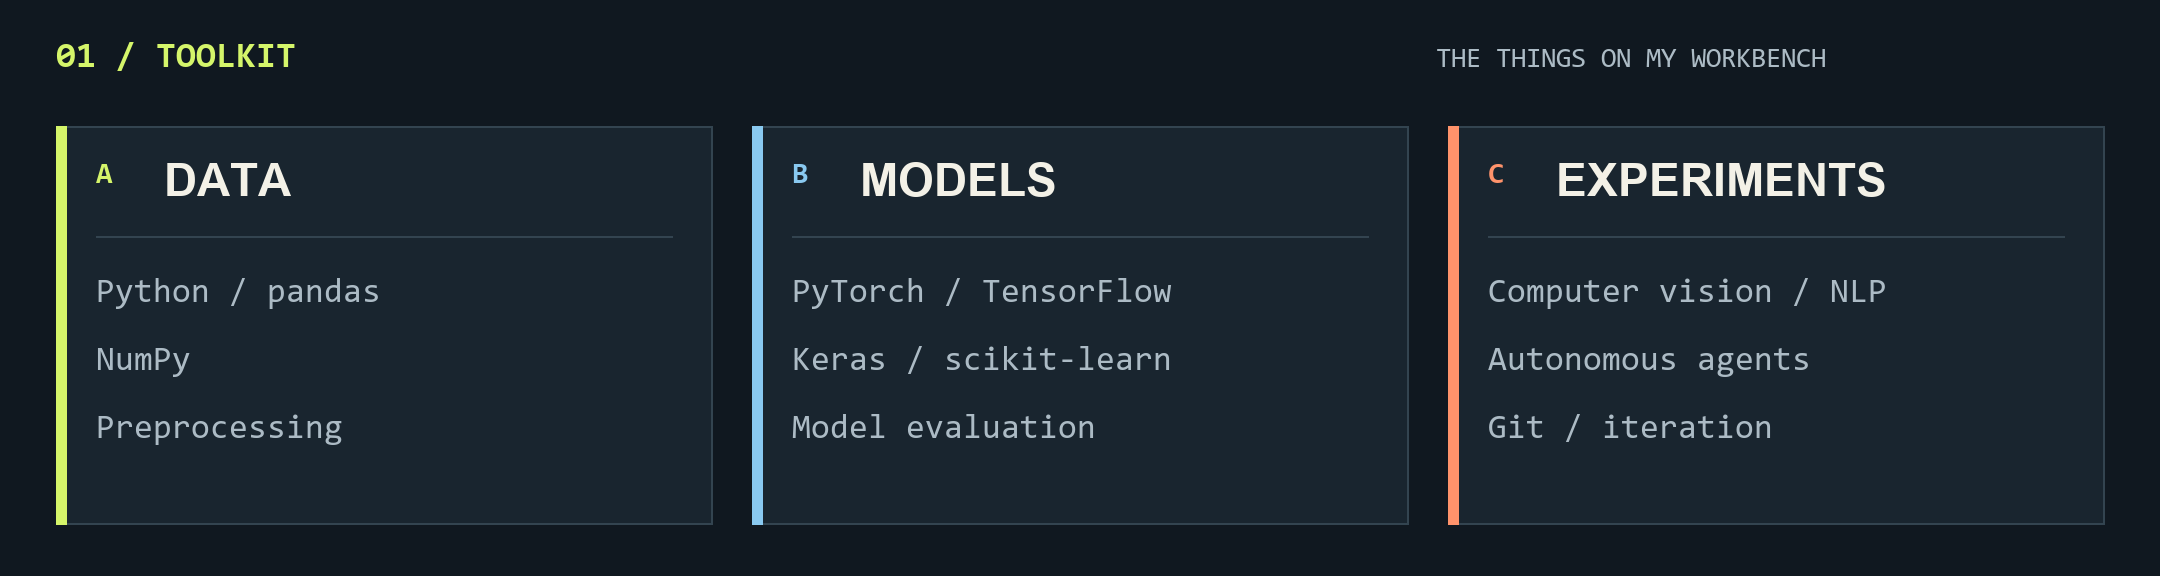
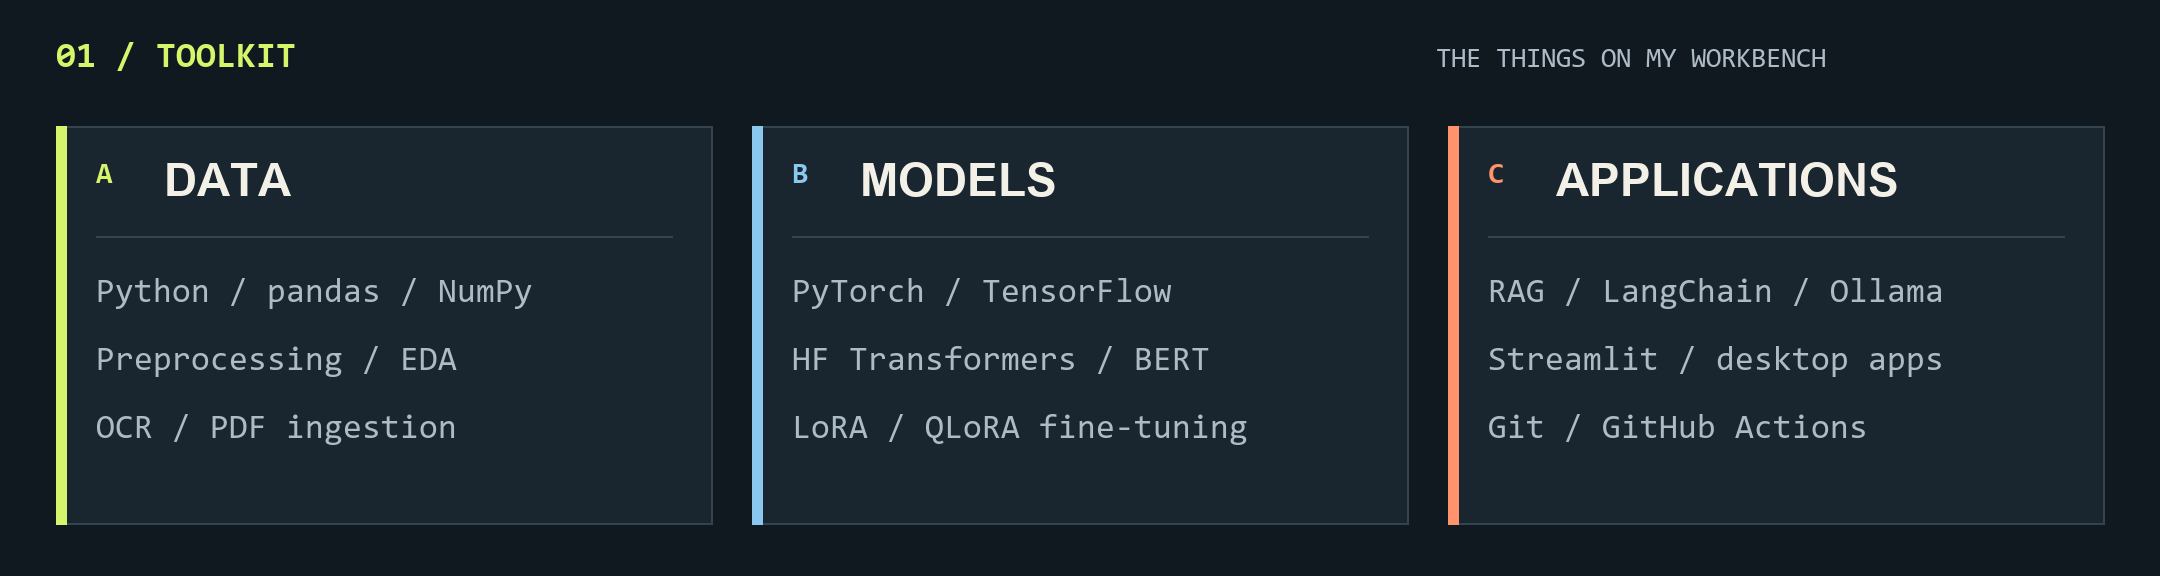
chore: remove pacman animation workflow from GitHub Actions

diff --git a/scripts/build_profile.py b/scripts/build_profile.py
@@ -78,9 +78,9 @@ im,d=new(288)
 txt(d,28,20,'01 / TOOLKIT',18,LIME,'consolab')
 txt(d,718,23,'THE THINGS ON MY WORKBENCH',14,MUTED)
 for x,num,title,items,color in [
-    (28,'A','DATA',['Python / pandas','NumPy','Preprocessing'],LIME),
-    (376,'B','MODELS',['PyTorch / TensorFlow','Keras / scikit-learn','Model evaluation'],BLUE),
-    (724,'C','EXPERIMENTS',['Computer vision / NLP','Autonomous agents','Git / iteration'],ORANGE)]:
+    (28,'A','DATA',['Python / pandas / NumPy','Preprocessing / EDA','OCR / PDF ingestion'],LIME),
+    (376,'B','MODELS',['PyTorch / TensorFlow','HF Transformers / BERT','LoRA / QLoRA fine-tuning'],BLUE),
+    (724,'C','APPLICATIONS',['RAG / LangChain / Ollama','Streamlit / desktop apps','Git / GitHub Actions'],ORANGE)]:
     box(d,(x,63,x+328,262),PANEL,EDGE)
     box(d,(x,63,x+5,262),color)
     txt(d,x+20,80,num,15,color,'consolab')

diff --git a/README.md b/README.md
@@ -1,15 +1,15 @@
 <img src="./img/profile-cover.png" width="100%" alt="JANLEARNS — Rayzan Fazri Ramdany. Aspiring ML and AI engineer. Build, break, learn, repeat." />
 
 <p align="center">
+  <a href="https://janlearns.github.io/Portofolio/"><b>PORTFOLIO ↗</b></a> &nbsp; &nbsp; / &nbsp; &nbsp;
   <a href="mailto:rayzanfazri@gmail.com"><b>EMAIL ↗</b></a> &nbsp; &nbsp; / &nbsp; &nbsp;
   <a href="https://www.linkedin.com/in/rayzan-fazri-ramdany-190063291"><b>LINKEDIN ↗</b></a> &nbsp; &nbsp; / &nbsp; &nbsp;
-  <a href="https://www.instagram.com/rayzan3_0"><b>INSTAGRAM ↗</b></a> &nbsp; &nbsp; / &nbsp; &nbsp;
-  <a href="https://github.com/Janlearns?tab=repositories"><b>REPOSITORIES ↗</b></a>
+  <a href="https://www.instagram.com/rayzan3_0"><b>INSTAGRAM ↗</b></a>
 </p>
 
 ### Hey, I'm Rayzan 👋
 
-I'm learning to build machine learning systems, from preparing the data to making a model work inside an application. Here you'll find my experiments with **deep learning, computer vision, NLP, and agents**.
+Informatics student at [Universitas Jenderal Achmad Yani](https://www.unjani.ac.id/), Cimahi, and alumni of the Data Science & Machine Learning bootcamp at [dibimbing.id](https://dibimbing.id/). I build machine learning systems end to end, from cleaning the data to putting the model inside something people can actually click on. Lately most of that has been **NLP for Indonesian text, fine-tuning small LLMs, and retrieval-augmented apps**.
 
 <table>
 <tr>
@@ -17,7 +17,7 @@ I'm learning to build machine learning systems, from preparing the data to makin
 
 **↳ Currently exploring**
 
-Neural networks, model evaluation, and how agents learn through interaction.
+Fact-checking with transformers, LoRA fine-tuning on a budget GPU, and making RAG answers cite where they came from.
 
 </td>
 <td width="50%" valign="top">
@@ -30,7 +30,56 @@ Connecting the pieces: data → training → evaluation → a usable application
 </tr>
 </table>
 
-<img src="./img/toolkit.png" width="100%" alt="Toolkit: Python, pandas, NumPy and preprocessing; PyTorch, TensorFlow, Keras, scikit-learn and model evaluation; computer vision, NLP, autonomous agents and Git." />
+<img src="./img/toolkit.png" width="100%" alt="Toolkit. Data: Python, pandas, NumPy, preprocessing, EDA, OCR and PDF ingestion. Models: PyTorch, TensorFlow, Hugging Face Transformers, BERT, LoRA and QLoRA fine-tuning. Applications: RAG, LangChain, Ollama, Streamlit, desktop apps, Git and GitHub Actions." />
+
+<br>
+
+### Selected work
+
+<table>
+<tr>
+<td width="50%" valign="top">
+
+<sub><code>NLP · OCR · BROWSER EXTENSION</code></sub>
+
+**[CekFakta ↗](https://github.com/Janlearns/Information-_detection)**
+
+Paste a claim, get back the sources that support or contradict it. Searches the web, extracts articles, runs OCR on images, and checks claim–evidence pairs with a transformer. Ships as a Windows app and a browser extension. Still a prototype, and the README says so.
+
+</td>
+<td width="50%" valign="top">
+
+<sub><code>LLM FINE-TUNING · LORA · SUPABASE</code></sub>
+
+**[ContextFlow AI ↗](https://github.com/Janlearns/contextflow_ai_fine_tuning)**
+
+An internal-knowledge assistant built on TinyLlama 1.1B, fine-tuned with LoRA/QLoRA on SOP and HR-policy style documents. Includes BLEU/ROUGE evaluation, chat logging in Supabase, and CI with GitHub Actions.
+
+</td>
+</tr>
+<tr>
+<td width="50%" valign="top">
+
+<sub><code>TOKEN CLASSIFICATION · BERT</code></sub>
+
+**[NER for Indonesian ↗](https://github.com/Janlearns/NER_indonesia)**
+
+Fine-tunes `bert-base-multilingual-cased` to tag people, organizations, locations, time, and quantities in Indonesian sentences, using the [IndoLEM](https://github.com/indolem/indolem) NER data. Keeps the checkpoint with the best validation F1.
+
+</td>
+<td width="50%" valign="top">
+
+<sub><code>RAG · VECTOR DB · LLM</code></sub>
+
+**[Poverty RAG Chatbot ↗](https://github.com/Janlearns/RAG_untuk_tingkat_kemiskinan_di_indonesia)**
+
+Answers questions about the socio-economic and environmental drivers of poverty in Indonesia. Retrieval is restricted to a curated set of academic papers, which keeps the model from making things up.
+
+</td>
+</tr>
+</table>
+
+<sub>Also on the bench: [a fashion stylist chatbot](https://github.com/Janlearns/Chatbot_outfit_langchain) (LangChain + Ollama over a PDF catalog) · [SmartSplit Bill AI](https://github.com/Janlearns/SmartSplit_Bill_AI) (Gemini reads a receipt and splits it) · [TokenScope](https://github.com/Janlearns/TokenScope) (token and context-window experiments on Groq) · [all repositories →](https://github.com/Janlearns?tab=repositories)</sub>
 
 <br>
 
@@ -42,7 +91,7 @@ Connecting the pieces: data → training → evaluation → a usable application
 
 **NPC Maze Solver** is a small environment for exploring how an agent learns to navigate. Start a run and follow its reward, step count, and progress across episodes.
 
-**[▶ Play with the demo](https://janlearns.github.io/NPC_maze_project/)** &nbsp; &nbsp; **[↗ Explore MiniProject](https://github.com/Janlearns/MiniProject)**
+**[▶ Play with the demo](https://janlearns.github.io/NPC_maze_project/)** &nbsp; &nbsp; **[↗ Source code](https://github.com/Janlearns/NPC_maze_project)**
 
 <details>
 <summary><b>＋ Take a look inside the application</b></summary>
@@ -52,15 +101,31 @@ Connecting the pieces: data → training → evaluation → a usable application
 
 <br>
 
-### Beyond this experiment
+### Commit history, eaten daily
 
-| 🧠 Models & learning | 🔧 From notebook to software |
-| :--- | :--- |
-| Deep learning & neural architectures | Data preprocessing & feature engineering |
-| Computer vision & language | Hyperparameter tuning & evaluation |
-| Autonomous agents | Model integration & deployment — learning next |
+<picture>
+  <source media="(prefers-color-scheme: dark)" srcset="https://raw.githubusercontent.com/Janlearns/Janlearns/output/snake-dark.svg" />
+  <source media="(prefers-color-scheme: light)" srcset="https://raw.githubusercontent.com/Janlearns/Janlearns/output/snake-light.svg" />
+  <img src="https://raw.githubusercontent.com/Janlearns/Janlearns/output/snake-dark.svg" width="100%" alt="Snake animation moving through Rayzan's GitHub contribution graph." />
+</picture>
 
-**[Browse my repositories →](https://github.com/Janlearns?tab=repositories)** &nbsp; / &nbsp; **[Follow what I'm working on →](https://github.com/Janlearns?tab=overview)**
+<sub>Generated from my real contribution graph by [Platane/snk](https://github.com/Platane/snk), redrawn twice a day by a GitHub Action in this repo.</sub>
+
+<br><br>
+
+<details>
+<summary><b>＋ Standing on these shoulders</b></summary>
+<br>
+
+Open work that my projects lean on directly:
+
+- [Hugging Face Transformers](https://github.com/huggingface/transformers) and [PEFT](https://github.com/huggingface/peft): BERT fine-tuning and LoRA adapters
+- [IndoLEM](https://github.com/indolem/indolem): Indonesian NER benchmark data
+- [LangChain](https://github.com/langchain-ai/langchain) and [Ollama](https://github.com/ollama/ollama): local LLMs plus retrieval
+- [TinyLlama](https://github.com/jzhang38/TinyLlama): a 1.1B model small enough to fine-tune on one GPU
+- [Streamlit](https://github.com/streamlit/streamlit): the fastest way I know to put a model in front of someone
+
+</details>
 
 <br>
 
